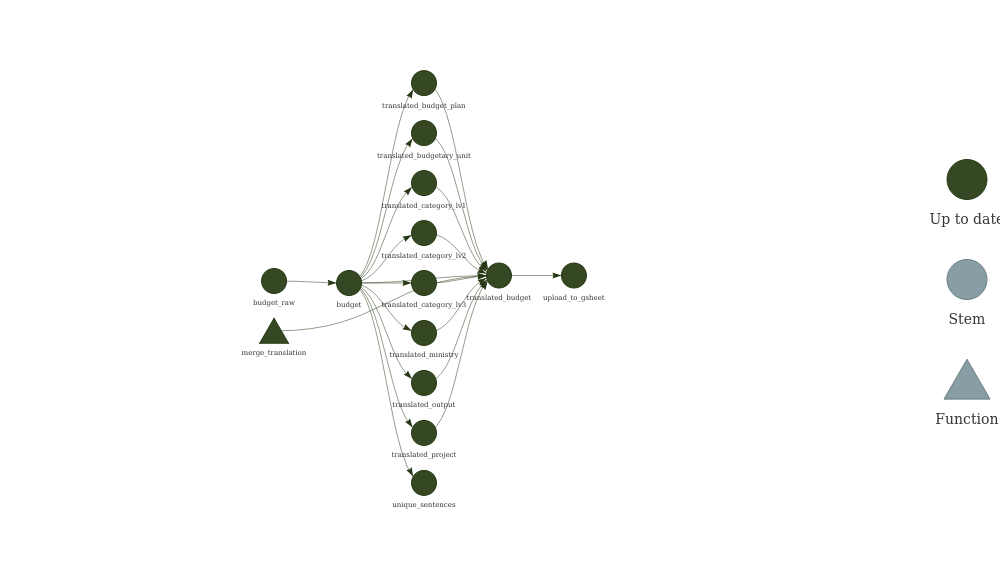
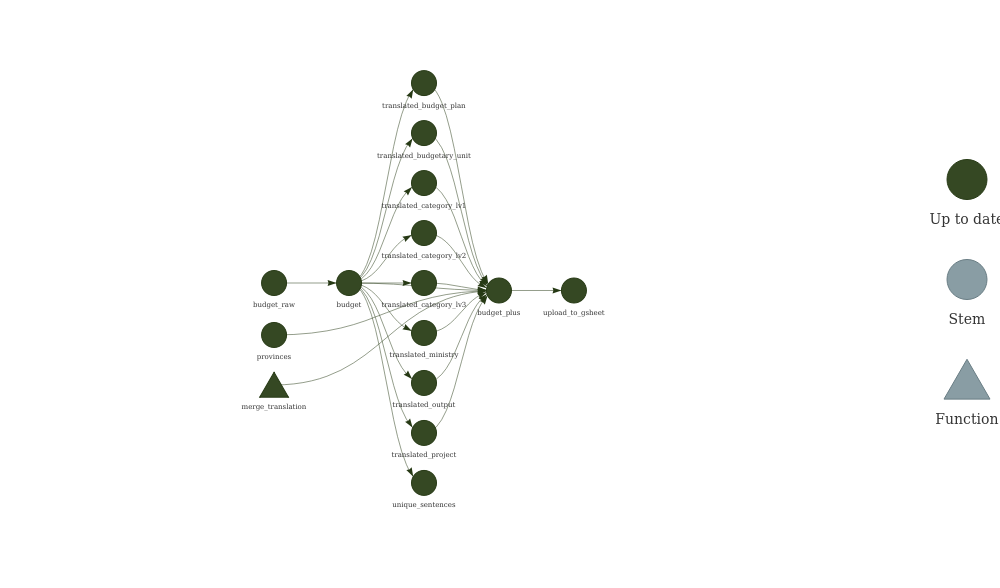
Improvements
- Add address fields extracted from item description.
- Fix missing rows due to the merge function in `merge_translation()`.

diff --git a/README.md b/README.md
@@ -1,14 +1,18 @@
-ThaiGov’s 2022 Budget
+ThaiGov’s 2022 Budget+
 ================
 
 ![<https://img.shields.io/badge/open%20data-thailand-blue>](https://img.shields.io/badge/open%20data-thailand-blue)
 
-This repository contains R code that uses [Google Translation
-API](https://cloud.google.com/translate) to translate [2022 Thai
-Government Budget
-data](https://github.com/kaogeek/thailand-budget-pdf2csv) from Thai to
-English. A *partially* translated version of the data can be viewed and
-downloaded from here:
+This repository contains a richer version of [2022 Thai Government
+Budget data](https://github.com/kaogeek/thailand-budget-pdf2csv).
+
+Improvements:
+
+-   Translated most of the character columns from Thai to English using
+    [Google Translation API](https://cloud.google.com/translate).
+-   Added address fields extracted from `item_description`.
+
+The data can be viewed and downloaded from here:
 
 > <https://docs.google.com/spreadsheets/d/1rKR1kLuSDssT0_xLpGE_oRm2tPD5ZRhzErWq-8UzH6A/edit?usp=sharing>
 
@@ -18,12 +22,16 @@ So far I have only translated `ministry`, `budgetary_unit`,
 interested to contribute, please submit a pull request with other
 columns translated to English. Feel free to use the R code below. :)
 
-| budget\_plan                                                 | budget\_plan\_en                                   | budgetary\_unit                                 | budgetary\_unit\_en                                                        | category\_lv1 | category\_lv1\_en | category\_lv2                     | category\_lv2\_en                        | category\_lv3            | category\_lv3\_en             | ministry                            | ministry\_en                            | output | output\_en | project                                                          | project\_en                                                                                       |
-|:-------------------------------------------------------------|:---------------------------------------------------|:------------------------------------------------|:---------------------------------------------------------------------------|:--------------|:------------------|:----------------------------------|:-----------------------------------------|:-------------------------|:------------------------------|:------------------------------------|:----------------------------------------|:-------|:-----------|:-----------------------------------------------------------------|:--------------------------------------------------------------------------------------------------|
-| แผนงานยุทธศาสตร์จัดการผลกระทบจากการเปลี่ยนแปลงสภาวะภูมิอากาศ | Climate Change Impact Strategic Work Plan          | สำนักงานปลัดกระทรวงดิจิทัลเพื่อเศรษฐกิจและสังคม | Office of the Permanent Secretary, Ministry of Digital Economy and Society | งบลงทุน       | investment budget | ค่าครุภัณฑ์ ที่ดินและสิ่งก่อสร้าง | Cost of equipment, land and construction | ค่าครุภัณฑ์              | cost of equipment             | กระทรวงดิจิทัลเพื่อเศรษฐกิจและสังคม | Ministry of Digital Economy and Society | NA     | NA         | โครงการจัดหาเครื่องวัดลมเฉือน (Lidar) และเครื่องมือ ตรวจลมชั้นบน | Project for procurement of wind shear gauges (lidar) and instruments for wind monitoring upstairs |
-| แผนงานบูรณาการสร้างรายได้จากการท่องเที่ยว                    | Integrated program to generate income from tourism | กรมโยธาธิการและผังเมือง                         | Department of Public Works and Town & Country Planning                     | งบลงทุน       | investment budget | ค่าครุภัณฑ์ ที่ดินและสิ่งก่อสร้าง | Cost of equipment, land and construction | ค่าที่ดินและสิ่งก่อสร้าง | cost of land and construction | กระทรวงมหาดไทย                      | Ministry of Interior                    | NA     | NA         | โครงการพัฒนาปัจจัยพื้นฐานด้านการท่องเที่ยว                       | Tourism Fundamentals Development Project                                                          |
+| budget\_plan                                  | budget\_plan\_en                               | budgetary\_unit  | budgetary\_unit\_en                 | category\_lv1 | category\_lv1\_en | category\_lv2            | category\_lv2\_en               | category\_lv3   | category\_lv3\_en | ministry                                             | ministry\_en                                                       | output | output\_en | project                                         | project\_en                                                | province | province\_en  | district      | district\_en   | subdistrict | region\_en |
+|:----------------------------------------------|:-----------------------------------------------|:-----------------|:------------------------------------|:--------------|:------------------|:-------------------------|:--------------------------------|:----------------|:------------------|:-----------------------------------------------------|:-------------------------------------------------------------------|:-------|:-----------|:------------------------------------------------|:-----------------------------------------------------------|:---------|:--------------|:--------------|:---------------|:------------|:-----------|
+| แผนงานยุทธศาสตร์เสริมสร้างให้คนมีสุขภาวะที่ดี | Strategic plans to promote people’s well-being | มหาวิทยาลัยมหิดล | Mahidol University                  | งบเงินอุดหนุน | subsidy budget    | เงินอุดหนุนทั่วไป        | general subsidy                 | ค่าครุภัณฑ์ ส่d | NA                | กระทรวงการอุดมศึกษา วิทยาศาสตร์ วิจัยและนวัตกรรม (4) | Ministry of Higher Education, Science, Research and Innovation (4) | NA     | NA         | โครงการเพิ่มศักยภาพการให้บริการทางด้านสาธารณสุข | Project to increase the capacity of public health services | นครปฐม   | Nakhon Pathom | อำเภอพุทธมณฑล | Phutthamonthon | ตำบลศาลายา  | Centre     |
+| แผนงานยุทธศาสตร์เสริมสร้างพลังทางสังคม        | Social Empowerment Strategic Plan              | กรมปศุสัตว์      | Department of Livestock Development | งบดำเนินงาน   | operating budget  | ค่าตอบแทน ใช้สอยและวัสดุ | Compensation, use and materials | NA              | NA                | กระทรวงเกษตรและสหกรณ์                                | Ministry of Agriculture and Cooperatives                           | NA     | NA         | โครงการอันเนื่องมาจากพระราชดำริ                 | Royal projects                                             | NA       | NA            | NA            | NA             | NA          | NA         |
+
+    #> `summarise()` has grouped output by 'ministry_en'. You can override using the `.groups` argument.
 
 ![](README_files/figure-gfm/total-budget-by-ministry-1.png)<!-- -->
+
+![](README_files/figure-gfm/total-budget-by-ministry-and-region-1.png)<!-- -->
 
 # Targets
 
@@ -32,7 +40,7 @@ options(tidyverse.quiet = TRUE)
 tar_option_set(packages = c("dplyr", "ggplot2", "googlesheets4", "tidyr", "skimr", "magrittr", "googleLanguageR", "data.table"))
 merge_translation <- function(x, translation, column) {
   translation %>%
-    merge(x, ., by.x = column, by.y = "text") %>%
+    merge(x, ., by.x = column, by.y = "text", all.x = TRUE) %>%
     select(-detectedSourceLanguage) %>%
     rename_with( ~ gsub("translatedText", paste0(column, "_en"), .x, fixed = TRUE))
 }
@@ -118,7 +126,7 @@ list(
 ```
 
 ``` r
-tar_target(translated_budget, {
+tar_target(budget_plus, {
   budget %>%
     merge_translation(translated_ministry, "ministry") %>%
     merge_translation(translated_budgetary_unit, "budgetary_unit") %>%
@@ -127,11 +135,40 @@ tar_target(translated_budget, {
     merge_translation(translated_project, "project") %>%
     merge_translation(translated_category_lv1, "category_lv1") %>%
     merge_translation(translated_category_lv2, "category_lv2") %>%
-    merge_translation(translated_category_lv3, "category_lv3") %>%
+    merge_translation(translated_category_lv3, "category_lv3") %>% 
+    dplyr::mutate(province = stringr::str_extract(item_description, "จังหวัด[^\\s]+|กรุงเทพมหานคร")) %>%
+    dplyr::mutate(district = stringr::str_extract(item_description, "อำเภอ[^\\s]+|เขต[^\\s]+")) %>%
+    dplyr::mutate(subdistrict = stringr::str_extract(item_description, "ตำบล[^\\s]+|แขวง[^\\s]+")) %>%
+    dplyr::mutate(province = gsub("จังหวัด", "", province)) %>%
+    merge(dplyr::select(provinces, starts_with("district")), by = "district", all.x = TRUE) %>%
+    merge(dplyr::select(distinct(provinces, province, .keep_all = T), starts_with("province"), region_en), by = "province", all.x = TRUE) %>%
     select(names(budget), everything())
 })
-#> Defined target translated_budget automatically from chunk code.
-#> Established _targets.R and _targets_r/targets/translated_budget.R.
+#> Defined target budget_plus automatically from chunk code.
+#> Established _targets.R and _targets_r/targets/budget_plus.R.
+```
+
+``` r
+list(tar_target(provinces, {
+  exclude_bkk <-
+    rvest::read_html("https://en.wikipedia.org/wiki/List_of_districts_of_Thailand") %>%
+    rvest::html_element(css = "table") %>%
+    rvest::html_table() %>%
+    janitor::clean_names() %>%
+    setNames(c("district_en", "district", "province_en", "province", "region_en")) %>%
+    dplyr::mutate(postcode = NA_integer_) %>%
+    dplyr::mutate(district = paste0("อำเภอ", district))
+  bkk <-
+    rvest::read_html("https://en.wikipedia.org/wiki/List_of_districts_of_Bangkok") %>%
+    rvest::html_element(css = "table") %>%
+    rvest::html_table() %>%
+    janitor::clean_names() %>%
+    dplyr::mutate(province_en = "Bangkok", province = "กรุงเทพ", region_en = "Centre") %>%
+    dplyr::select(district_en = district_khet, district = thai, province_en, province, region_en, postcode = post_code) %>%
+    dplyr::mutate(district = paste0("เขต", district))
+  rbind(bkk,exclude_bkk)
+}))
+#> Established _targets.R and _targets_r/targets/extract-addresses.R.
 ```
 
 ``` r
@@ -139,7 +176,7 @@ tar_target(upload_to_gsheet, {
   # googlesheets4::gs4_create("65_thailand_budget_extracted_b4_cleansing_with_ENlang",
   #            sheets = list(DATA = head(translated_budget, 10)))
   googlesheets4::sheet_write(
-    data = translated_budget,
+    data = budget_plus,
     ss = "https://docs.google.com/spreadsheets/d/1rKR1kLuSDssT0_xLpGE_oRm2tPD5ZRhzErWq-8UzH6A/edit?usp=sharing",
     sheet = "DATA"
   )
@@ -152,6 +189,7 @@ tar_target(upload_to_gsheet, {
 
 ``` r
 tar_make()
+#> ✓ skip target provinces
 #> ✓ skip target budget_raw
 #> ✓ skip target budget
 #> ✓ skip target translated_output
@@ -159,11 +197,11 @@ tar_make()
 #> ✓ skip target translated_category_lv1
 #> ✓ skip target translated_category_lv2
 #> ✓ skip target translated_category_lv3
-#> ✓ skip target unique_sentences
-#> ✓ skip target translated_ministry
 #> ✓ skip target translated_budgetary_unit
+#> ✓ skip target translated_ministry
 #> ✓ skip target translated_project
-#> ✓ skip target translated_budget
+#> ✓ skip target unique_sentences
+#> ✓ skip target budget_plus
 #> ✓ skip target upload_to_gsheet
 #> ✓ skip pipeline
 ```
@@ -182,18 +220,18 @@ library(skimr)
 ```
 
 ``` r
-tar_read(budget) %>%
+tar_read(budget_plus) %>%
   skimr::skim()
 ```
 
 |                                                  |            |
 |:-------------------------------------------------|:-----------|
 | Name                                             | Piped data |
-| Number of rows                                   | 51767      |
-| Number of columns                                | 20         |
+| Number of rows                                   | 51962      |
+| Number of columns                                | 34         |
 | \_\_\_\_\_\_\_\_\_\_\_\_\_\_\_\_\_\_\_\_\_\_\_   |            |
 | Column type frequency:                           |            |
-| character                                        | 13         |
+| character                                        | 27         |
 | logical                                          | 4          |
 | numeric                                          | 3          |
 | \_\_\_\_\_\_\_\_\_\_\_\_\_\_\_\_\_\_\_\_\_\_\_\_ |            |
@@ -203,35 +241,49 @@ Data summary
 
 **Variable type: character**
 
-| skim\_variable    | n\_missing | complete\_rate | min | max | empty | n\_unique | whitespace |
-|:------------------|-----------:|---------------:|----:|----:|------:|----------:|-----------:|
-| item\_id          |          0 |           1.00 |  10 |  17 |     0 |     51767 |          0 |
-| ref\_doc          |          0 |           1.00 |   8 |  12 |     0 |        24 |          0 |
-| ministry          |          0 |           1.00 |   6 |  99 |     0 |        36 |          0 |
-| budgetary\_unit   |          0 |           1.00 |   6 |  79 |     0 |       718 |          0 |
-| budget\_plan      |          0 |           1.00 |  19 | 754 |     0 |        99 |          0 |
-| output            |      26898 |           0.48 |  11 | 196 |     0 |       371 |          0 |
-| project           |      27073 |           0.48 |  19 | 230 |     0 |      1351 |          0 |
-| category\_lv1     |          3 |           1.00 |   2 |  72 |     0 |        31 |          0 |
-| category\_lv2     |        122 |           1.00 |   7 | 354 |     0 |      1777 |          0 |
-| category\_lv3     |      13654 |           0.74 |   7 | 348 |     0 |      1395 |          0 |
-| category\_lv4     |      29904 |           0.42 |   8 | 118 |     0 |       217 |          0 |
-| item\_description |       5429 |           0.90 |   8 | 466 |     0 |     19806 |          0 |
-| debug\_log        |      50733 |           0.02 | 167 | 847 |     0 |       767 |          0 |
+| skim\_variable      | n\_missing | complete\_rate | min | max | empty | n\_unique | whitespace |
+|:--------------------|-----------:|---------------:|----:|----:|------:|----------:|-----------:|
+| item\_id            |          0 |           1.00 |  10 |  17 |     0 |     51767 |          0 |
+| ref\_doc            |          0 |           1.00 |   8 |  12 |     0 |        24 |          0 |
+| ministry            |          0 |           1.00 |   6 |  99 |     0 |        36 |          0 |
+| budgetary\_unit     |          0 |           1.00 |   6 |  79 |     0 |       718 |          0 |
+| budget\_plan        |          0 |           1.00 |  19 | 754 |     0 |        99 |          0 |
+| output              |      27025 |           0.48 |  11 | 196 |     0 |       371 |          0 |
+| project             |      27141 |           0.48 |  19 | 230 |     0 |      1351 |          0 |
+| category\_lv1       |          3 |           1.00 |   2 |  72 |     0 |        31 |          0 |
+| category\_lv2       |        123 |           1.00 |   7 | 354 |     0 |      1777 |          0 |
+| category\_lv3       |      13659 |           0.74 |   7 | 348 |     0 |      1395 |          0 |
+| category\_lv4       |      29930 |           0.42 |   8 | 118 |     0 |       217 |          0 |
+| item\_description   |       5429 |           0.90 |   8 | 466 |     0 |     19806 |          0 |
+| debug\_log          |      50918 |           0.02 | 167 | 847 |     0 |       767 |          0 |
+| province            |      32807 |           0.37 |   1 |  39 |     0 |       149 |          0 |
+| district            |      34301 |           0.34 |   4 |  56 |     0 |      1092 |          0 |
+| ministry\_en        |          0 |           1.00 |  12 | 149 |     0 |        36 |          0 |
+| budgetary\_unit\_en |          0 |           1.00 |   4 | 101 |     0 |       717 |          0 |
+| budget\_plan\_en    |          0 |           1.00 |  25 | 848 |     0 |        89 |          0 |
+| output\_en          |      27025 |           0.48 |   9 | 252 |     0 |       371 |          0 |
+| project\_en         |      27141 |           0.48 |  14 | 298 |     0 |      1312 |          0 |
+| category\_lv1\_en   |          0 |           1.00 |   2 |  90 |     0 |        26 |          0 |
+| category\_lv2\_en   |        123 |           1.00 |   9 | 515 |     0 |      1751 |          0 |
+| category\_lv3\_en   |      19921 |           0.62 |  13 |  80 |     0 |        16 |          0 |
+| subdistrict         |      35776 |           0.31 |   6 |  32 |     0 |      2834 |          0 |
+| district\_en        |      35576 |           0.32 |   2 |  26 |     0 |       838 |          0 |
+| province\_en        |      35775 |           0.31 |   3 |  24 |     0 |        76 |          0 |
+| region\_en          |      35775 |           0.31 |   4 |  10 |     0 |         6 |          0 |
 
 **Variable type: logical**
 
 | skim\_variable | n\_missing | complete\_rate | mean | count                  |
 |:---------------|-----------:|---------------:|-----:|:-----------------------|
-| cross\_func    |          0 |              1 | 0.15 | FAL: 43971, TRU: 7796  |
-| category\_lv5  |      51767 |              0 |  NaN | :                      |
-| category\_lv6  |      51767 |              0 |  NaN | :                      |
-| obliged        |          0 |              1 | 0.32 | FAL: 35279, TRU: 16488 |
+| cross\_func    |          0 |              1 | 0.15 | FAL: 44156, TRU: 7806  |
+| category\_lv5  |      51962 |              0 |  NaN | :                      |
+| category\_lv6  |      51962 |              0 |  NaN | :                      |
+| obliged        |          0 |              1 | 0.32 | FAL: 35357, TRU: 16605 |
 
 **Variable type: numeric**
 
 | skim\_variable | n\_missing | complete\_rate |        mean |           sd |    p0 |     p25 |     p50 |      p75 |      p100 | hist  |
 |:---------------|-----------:|---------------:|------------:|-------------:|------:|--------:|--------:|---------:|----------:|:------|
-| ref\_page\_no  |          0 |              1 |      304.33 | 1.951500e+02 |     5 |     147 |     279 |      429 | 9.190e+02 | ▇▇▅▂▁ |
-| fiscal\_year   |          0 |              1 |     2021.73 | 1.445000e+01 |  -287 |    2022 |    2022 |     2022 | 2.066e+03 | ▁▁▁▁▇ |
-| amount         |         43 |              1 | 97021729.28 | 2.218307e+09 | -2551 | 1188000 | 5736000 | 21816175 | 3.106e+11 | ▇▁▁▁▁ |
+| ref\_page\_no  |          0 |              1 |      304.48 | 1.951600e+02 |     5 |     147 |     279 |      430 | 9.190e+02 | ▇▇▅▂▁ |
+| fiscal\_year   |          0 |              1 |     2021.73 | 1.442000e+01 |  -287 |    2022 |    2022 |     2022 | 2.066e+03 | ▁▁▁▁▇ |
+| amount         |         43 |              1 | 96753257.35 | 2.214143e+09 | -2551 | 1196100 | 5779100 | 21959700 | 3.106e+11 | ▇▁▁▁▁ |
